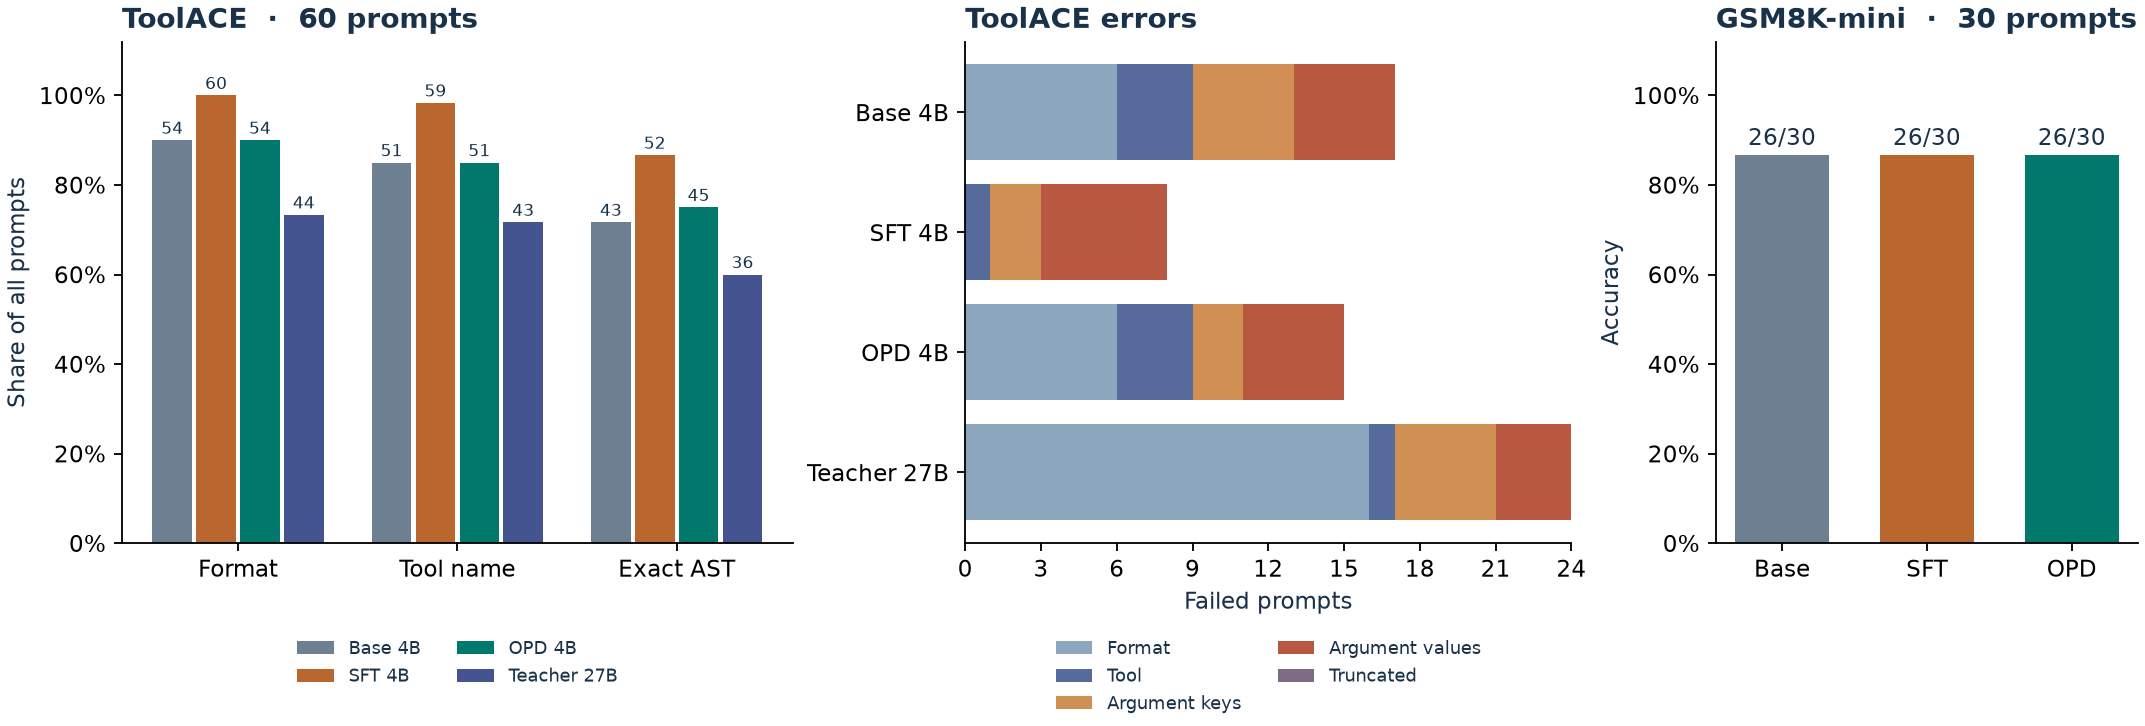
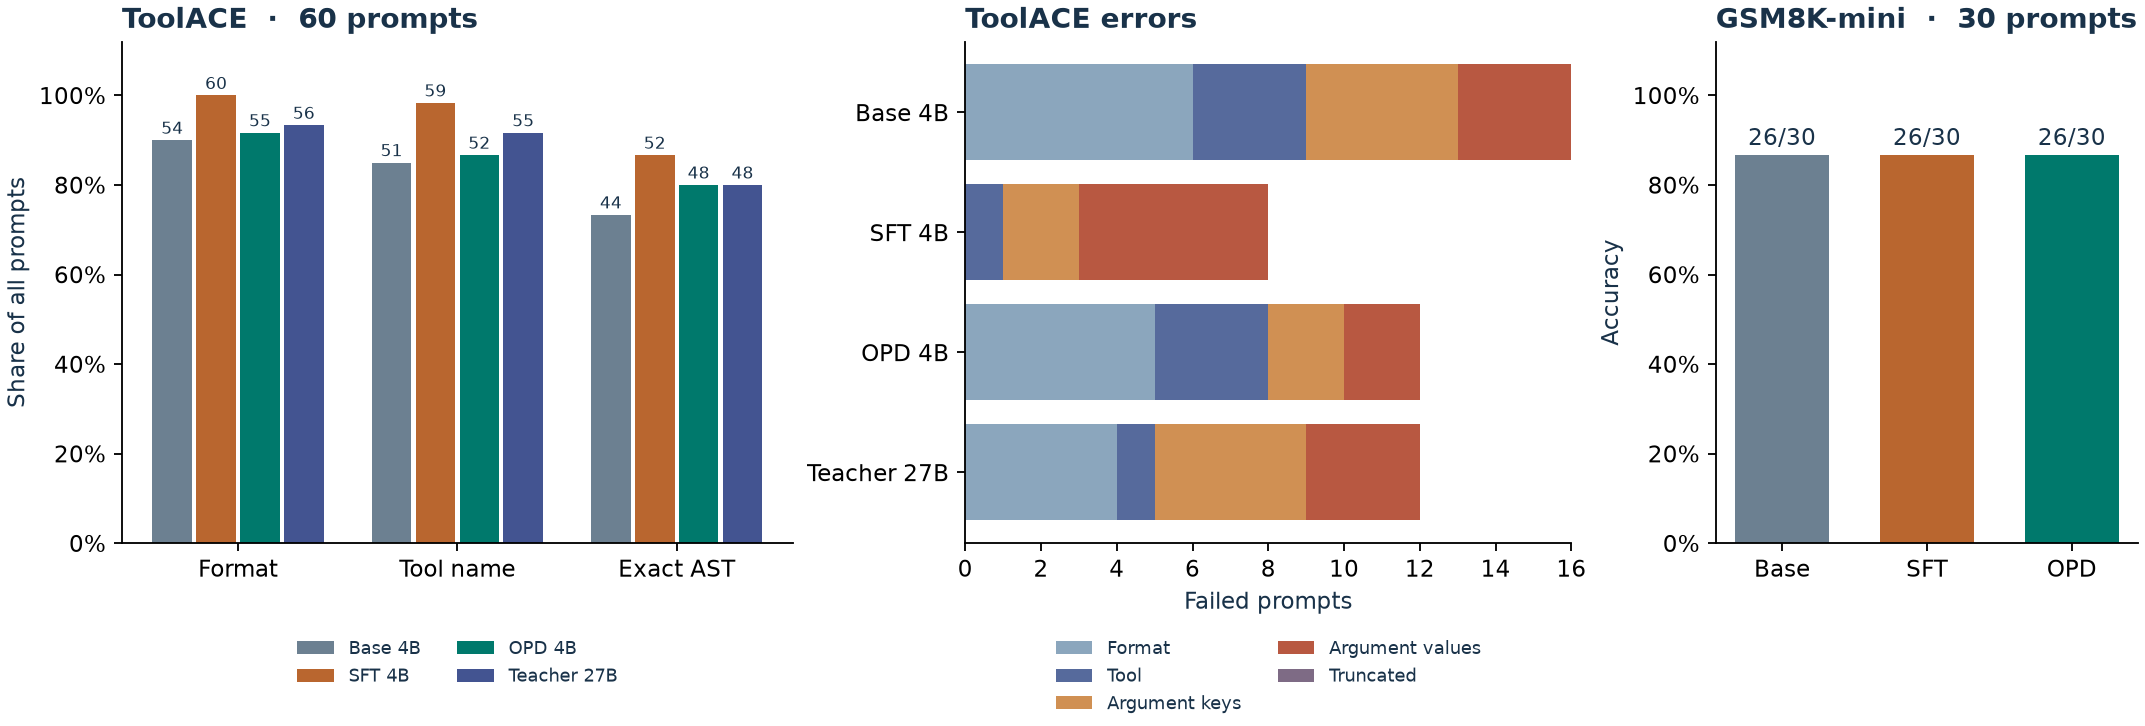
update task05 analysis

diff --git a/个人笔记/task_05.md b/个人笔记/task_05.md
@@ -49,13 +49,15 @@
 | --- | ---: | ---: | ---: | ---: | ---: |
 | Base 4B | 54/60（90.0%） | 51/60（85.0%） | 44/60（73.3%） | 23.62 | 0/60 |
 | **OPD 4B** | 55/60（91.7%） | 52/60（86.7%） | **48/60（80.0%）** | 22.08 | 0/60 |
-| Teacher 27B | 56/60（93.3%） | 55/60（91.7%） | 49/60（81.7%） | 23.23 | 0/60 |
+| Teacher 27B | 56/60（93.3%） | 55/60（91.7%） | 48/60（80.0%） | 23.23 | 0/60 |
 | **SFT 4B** | **60/60（100%）** | **59/60（98.3%）** | **52/60（86.7%）** | 20.40 | 0/60 |
+
+![四方 ToolACE 得分、互斥错误类型分布以及 GSM8K-mini 对照](figures/task05/evaluation.png)
 
 从这组四方对照可以看到清晰的能力梯度：
 
-1. **General OPD 零退步提分，追回了 80% 的师生差距**：在不看任何标准答案的前提下，OPD 4B 仅靠 25 步、100 条纯 prompt 的在线蒸馏，就将完全匹配率从 Base 4B 的 **73.3%（44/60）** 提升至 **80.0%（48/60）**（+4 题 / +6.7 个百分点），而且 4 题改对、0 题改错，没有引入新退步。对比 Teacher 27B 的 **81.7%（49/60）**，OPD 追回了师生差距的 **80.0%**（`4 / 5`），几乎贴近 Teacher 上界。
-2. **离线 SFT 拿到最高分，并且超过了 Teacher**：SFT 4B 达到 **86.7%（52/60）**（+8 题 / +13.3 个百分点，由 9 题改对和 1 题改错组成），比 27B Teacher 还高出 5 个百分点。原因在于 SFT 直接见过 100 条单调用标注示范，彻底学会了“遇到带条件分支的复合请求时只先发第一步调用”的数据集约定；而 OPD 只能学到 Teacher 的分布，Teacher 自己在这类复合请求上也倾向一次输出两个调用，因此 OPD 无法单靠蒸馏跨过 Teacher 的习惯。
+1. **General OPD 零退步提分，追平了 27B Teacher**：在不看任何标准答案的前提下，OPD 4B 仅靠 25 步、100 条纯 prompt 的在线蒸馏，就将完全匹配率从 Base 4B 的 **73.3%（44/60）** 提升至 **80.0%（48/60）**（+4 题 / +6.7 个百分点），而且 4 题改对、0 题改错，没有引入新退步，直接追平了 Teacher 27B 的 **80.0%（48/60）**（Gap Recovery 达到 **100%**）。
+2. **离线 SFT 拿到最高分，并且超过了 Teacher**：SFT 4B 达到 **86.7%（52/60）**（+8 题 / +13.3 个百分点，由 9 题改对和 1 题改错组成），比 27B Teacher 还高出 6.7 个百分点。原因在于 SFT 直接见过 100 条单调用标注示范，彻底学会了“遇到带条件分支的复合请求时只先发第一步调用”的数据集约定；而 OPD 只能学到 Teacher 的分布，Teacher 自己在这类复合请求上也倾向一次输出两个调用，因此 OPD 无法单靠蒸馏跨过 Teacher 的习惯。
 3. **短训练下未见明显遗忘差异**：在附带的 30 题 GSM8K-mini 抽测上（`max_tokens = 384`，`math-verify` 判分），Base、SFT、OPD 三组 4B 均为 **26/30（86.7%）**（各 2 题截断）。OPD 与 Base 答对的题目完全一致，SFT 在两题上互有得失（改对 `gsm8k-919`、在 `gsm8k-569` 上截断）。25 步规模下还不足以体现 SFT 与 OPD 在防遗忘上的分化。
 
 ---
@@ -69,7 +71,7 @@
 | 格式错误（含多调用） | 6 | 5 | 4 | 0 |
 | 选错工具 | 3 | 3 | 1 | 1 |
 | 参数键错误 | 4 | 2 | 4 | 2 |
-| 参数值错误 | 3 | 2 | 2 | 5 |
+| 参数值错误 | 3 | 2 | 3 | 5 |
 | 截断 | 0 | 0 | 0 | 0 |
 
 - **多调用与格式（SFT 独有优势）**：Base 4B 的 6 道格式错里，1 道是 `toolace-04293` 漏写调用括号（`[list_countries]`），其余 5 道均为复合请求一次返回两个调用（如 `toolace-00547`、`toolace-00746`、`toolace-00665`、`toolace-00781`、`toolace-05361`）。OPD 跟着 Teacher 修复了 `toolace-04293`，但其余 5 道多调用问题仍与 Base 一致；SFT 则直接把这 5 道多调用全部收敛为单步首调用，格式错误清零。
@@ -79,7 +81,7 @@
 
 #### 五、对照结论与实验边界
 
-1. **OPD 确实能在无标答条件下高效逼近 Teacher**：仅用 100 条纯 prompt 跑 25 步，OPD 4B 就在 ToolACE 上把完全匹配率从 `73.3%` 推到 `80.0%`，零退步追回 27B Teacher（`81.7%`）80% 的差距，验证了逐 token 密集蒸馏在小样本、短轨迹上的高样本效率。
+1. **OPD 确实能在无标答条件下高效逼近 Teacher**：仅用 100 条纯 prompt 跑 25 步，OPD 4B 就在 ToolACE 上把完全匹配率从 `73.3%` 推到 `80.0%`，零退步追平了 27B Teacher（`80.0%`），验证了逐 token 密集蒸馏在小样本、短轨迹上的高样本效率。
 2. **OPD 与 SFT 的核心分水岭在“能力上界”与“数据形态”**：
    - 当任务有现成高质量标注、且存在需要强制对齐的输出习惯（如本实验的严格单步调用）时，**离线 SFT** 以约 1/5 的 token 处理量和 1/4 的耗时拿到了更高的绝对分数（`86.7%`），并能超过 Teacher 自身的零样本表现，但在参数值细节上略易出现过拟合；
    - 当缺少标准答案、或希望在不引入新退步的前提下把大模型能力温和迁移到小模型时，**General OPD** 是更自然的选择，但其上限受限于 Teacher 本身的表现。
